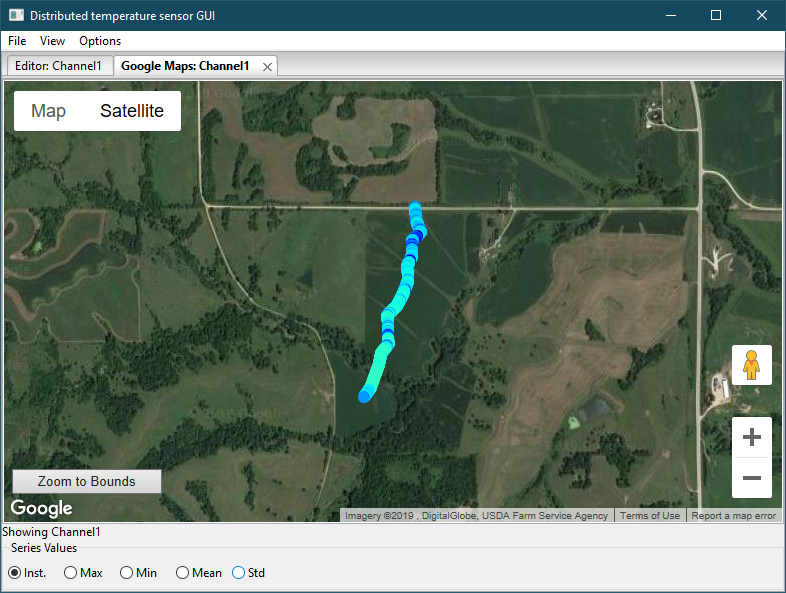
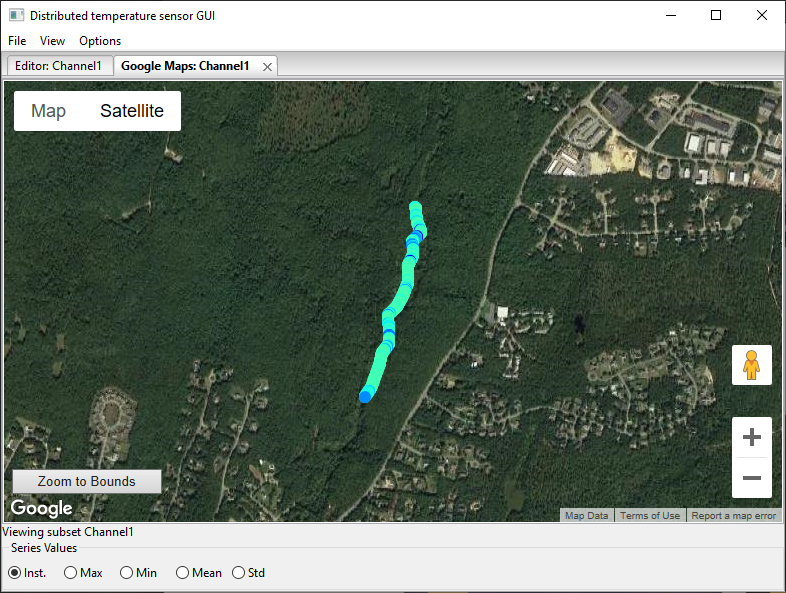
update utm zone in tutorial

diff --git a/docs/TUTORIAL.md b/docs/TUTORIAL.md
@@ -130,6 +130,19 @@ buttons in the channel 1 editor tab will be enabled. See the below figure.
 
 ## 7. View the channel data on Google Maps
 
+**In order to correctly view the Google Maps feature, you must have a Google
+Maps JavaScript API key.** The API key must be contained in a file named
+`apikey` in the same directory as
+
+* The DTSGUI executable if you're running the packaged version (`DTSGUI.exe`)
+or
+* The DTSGUI package if you're running the program through a Python
+interpreter (not *in* the package directory, but on the same level as the
+package).
+
+Email [mdomanski@usgs.gov](mailto:mdomanski@usgs.gov) to request an API key if
+you don't have access to one.
+
 To view the georeferenced temperature data, click the Google Maps Viewer
 button in the channel 1 editor tab. A new tab named Google Maps: Channel 1 will
 appear in the main window (as shown in the figure below).
